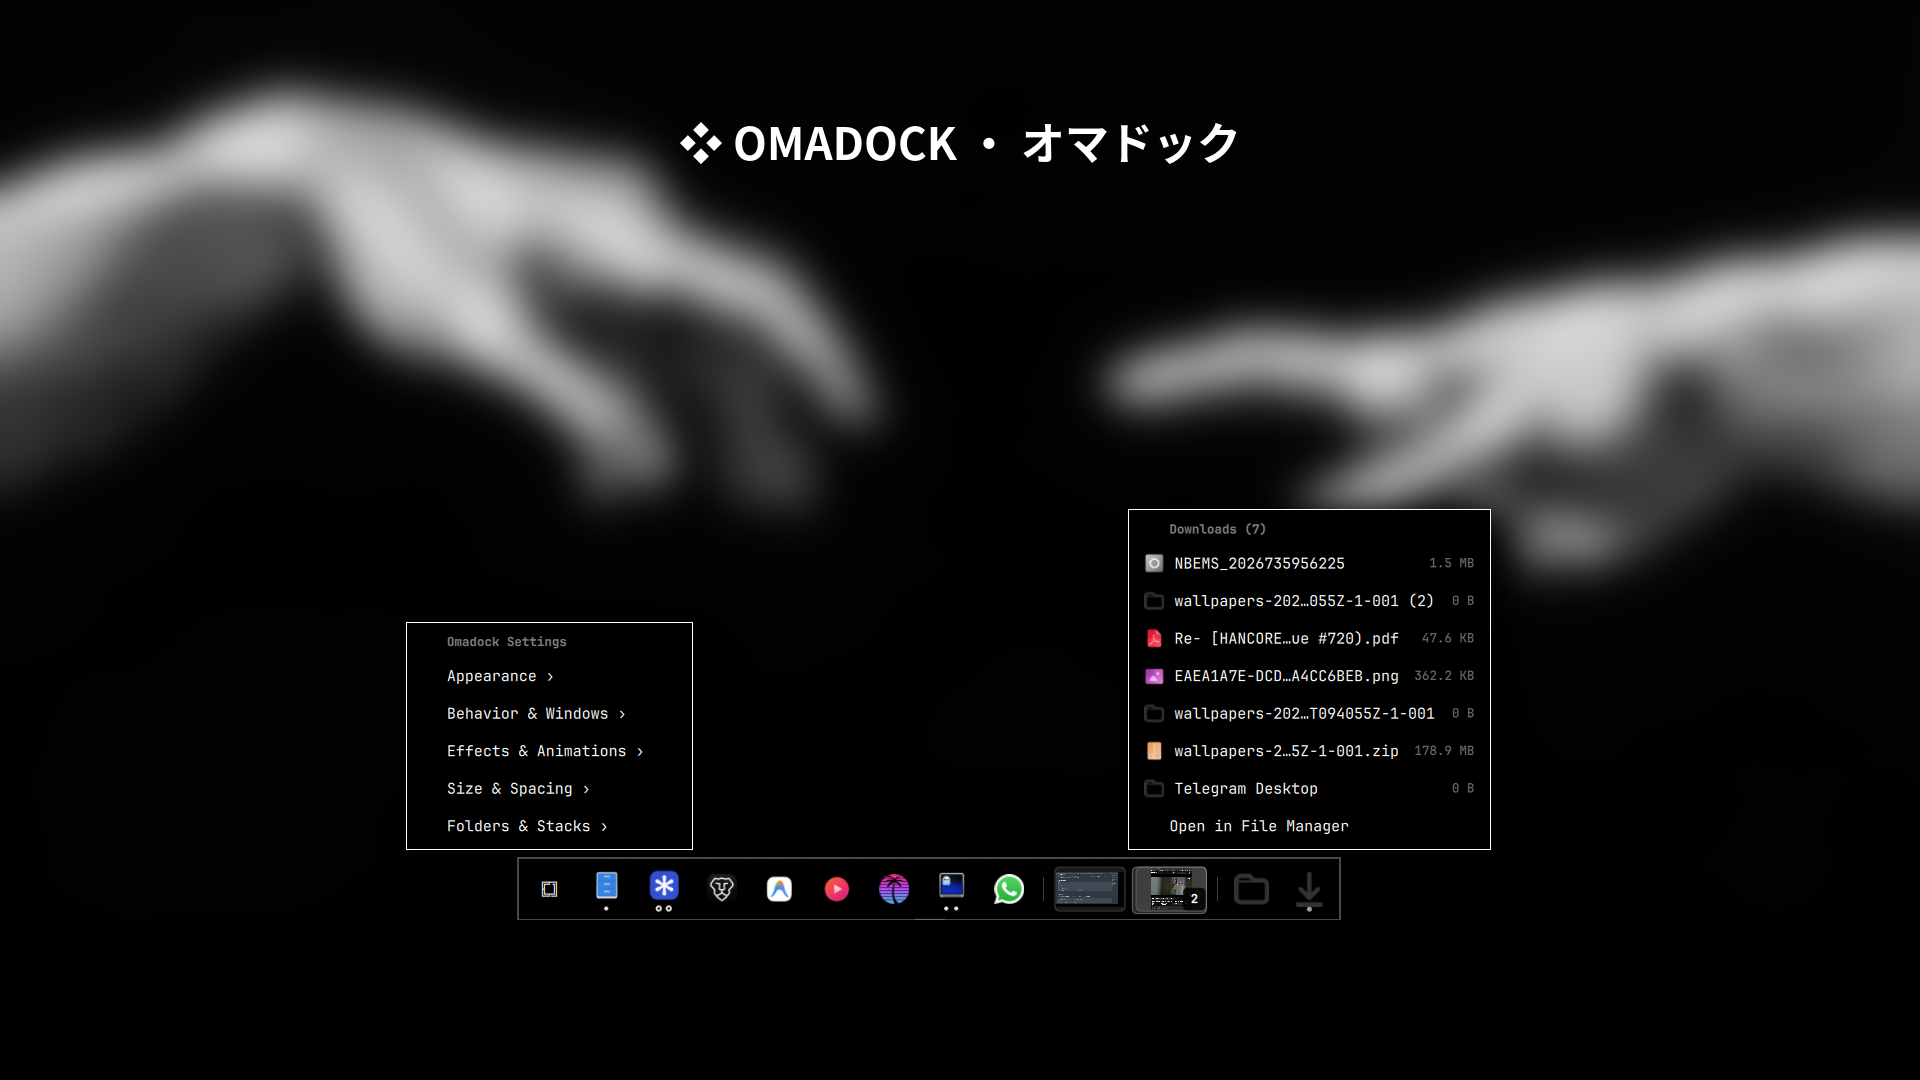
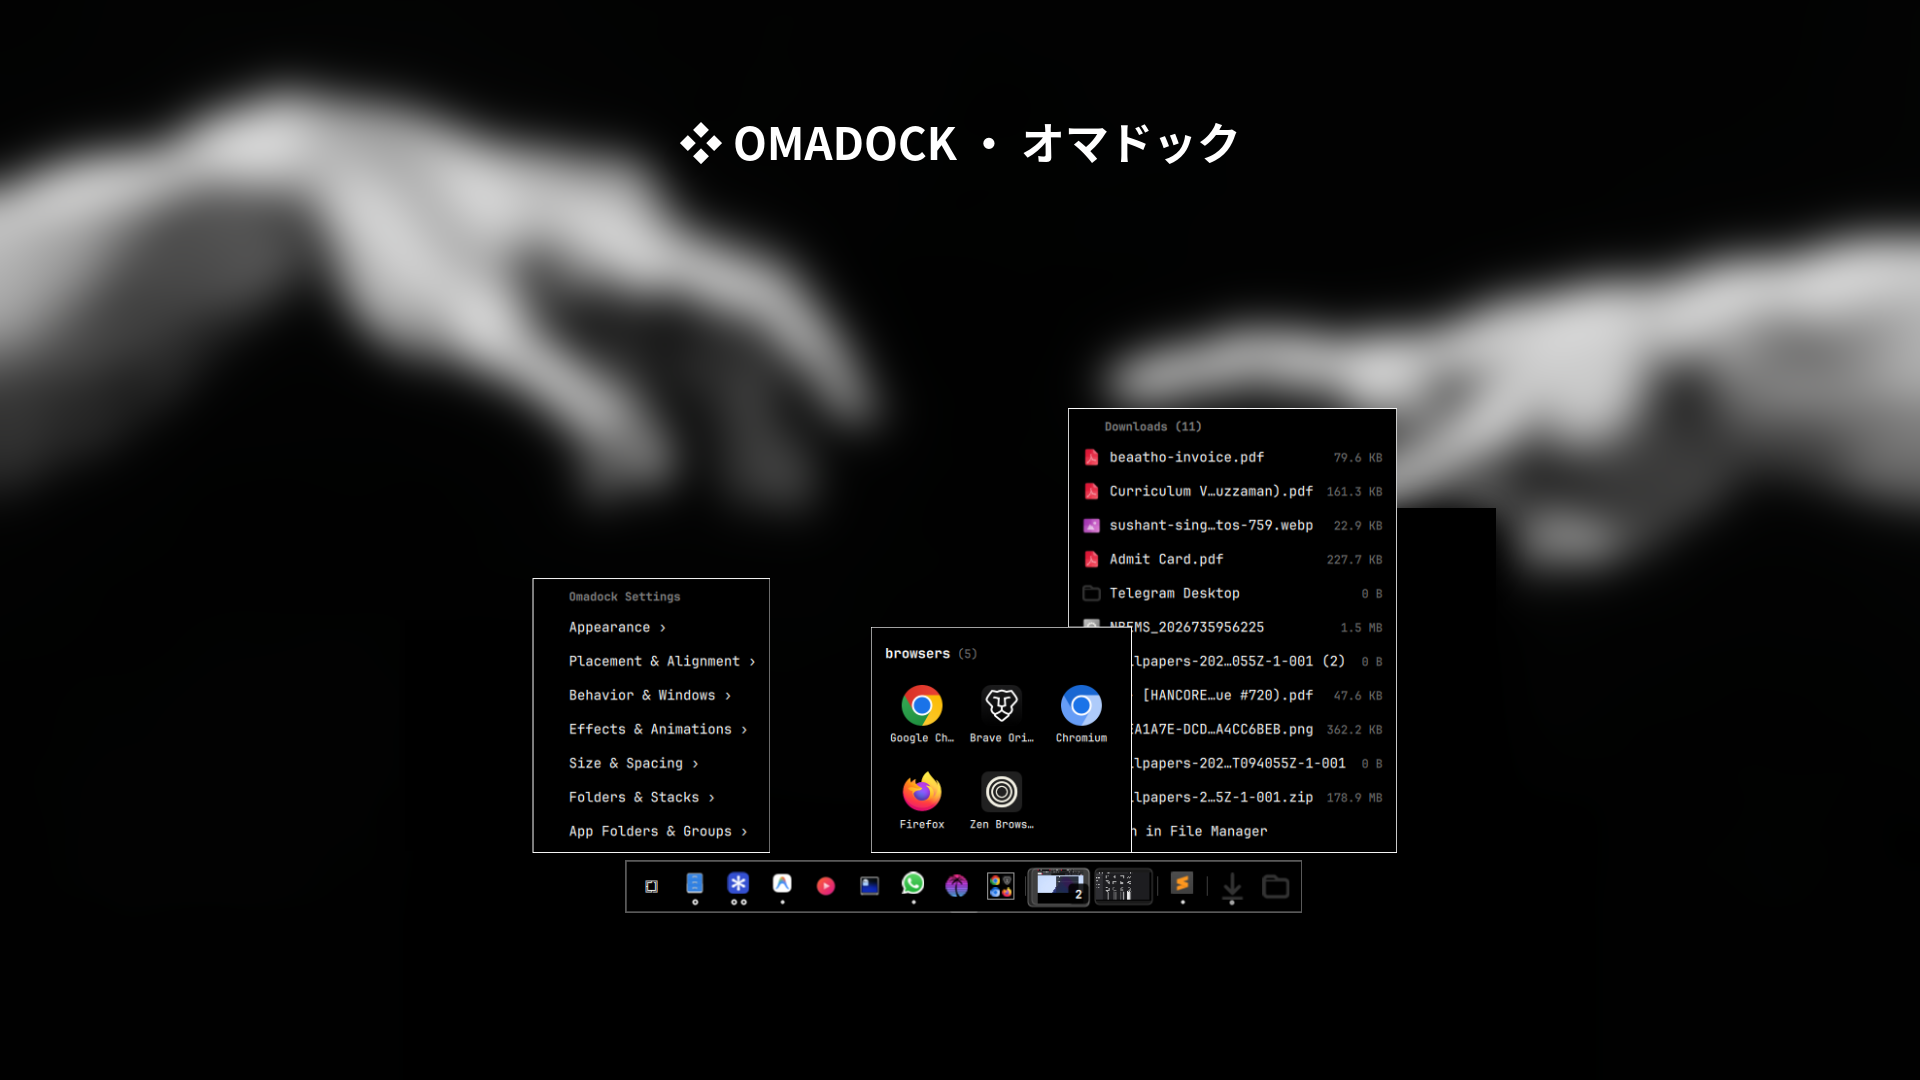
docs: update preview assets with clean border screenshot cutout

Changed region(s): [[0.2188, 0.3667, 0.7812, 0.8556]]

diff --git a/README.md b/README.md
@@ -232,8 +232,10 @@ Right-click the Omarchy logo or empty dock space to access deep customization:
 
 - **Shapes**: `Auto (Theme)`, `Rounded`, `Round (Pill)`, `Square`.
 - **Opacity**: `Auto (Theme)`, `100%`, `80%`, `65%`, `35%`, `0% (Transparent Specular)`.
+- **Placement & Alignment**: `Center (Default)`, `Left Aligned`, `Right Aligned` along the screen edge.
 - **Color Presets**: Theme Auto, Pure Black, Mocha, Deep Slate, Midnight Blue, Dark Navy, Emerald Forest, Velvet Ruby.
 - **Icon Sizing**: Small ($28\text{px}$), Medium ($36\text{px}$), Large ($44\text{px}$), Extra Large ($52\text{px}$).
+- **App Folders & Groups**: Automatic smart collections from running apps, drag-to-group, in-place title renaming, and column scaling.
 
 ---
 
@@ -275,8 +277,10 @@ Settings persist in `~/.config/omarchy/omadock.json` and are editable live:
 
 ```json
 {
+  "alignment": "center",
   "autohide": true,
   "intelligentAutohide": true,
+  "showRemovableDrives": true,
   "minimizeMode": "active",
   "showMinimizedTiles": true,
   "opacity": 1.0,
@@ -298,6 +302,9 @@ Settings persist in `~/.config/omarchy/omadock.json` and are editable live:
   "tooltipDelay": 450,
   "pinnedFolders": [
     { "path": "~/Downloads", "name": "Downloads", "icon": "folder-download" }
+  ],
+  "appGroups": [
+    { "id": "browsers", "name": "browsers", "apps": ["google-chrome", "brave-browser", "chromium", "firefox", "zen-browser"] }
   ]
 }
 ```
